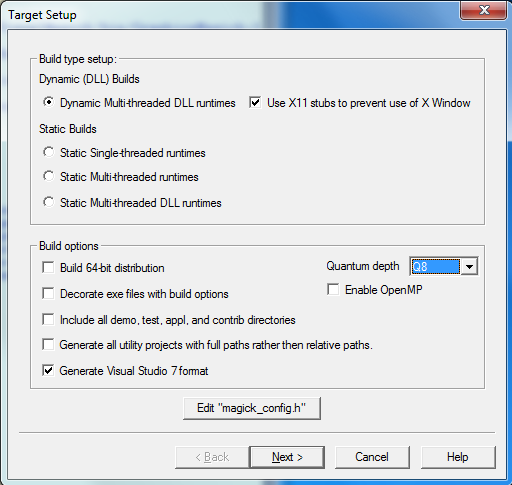
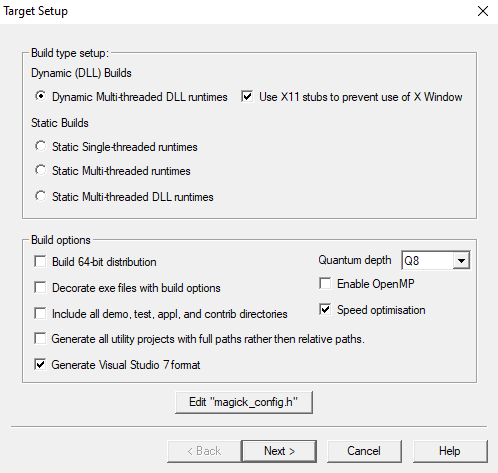
www/INSTALL-windows.rst: Update Windows installation and build documentation.

Changed region(s): [[0.0, 0.0, 1.0, 1.0]]

diff --git a/www/INSTALL-windows.html b/www/INSTALL-windows.html
@@ -179,23 +179,17 @@ options:</p>
 <li>Create a desktop icon</li>
 <li>Update executable search path</li>
 <li>Associate supported file extensions with GraphicsMagick</li>
-<li>Install ImageMagickObject OLE Control for VBscript, Visual Basic,
-and WSH.</li>
 </ul>
 <p>&quot;Creating a desktop icon&quot; and &quot;Update the executable search path&quot;
 are selected by default. The remaining options default to
 un-selected.  Select the options you prefer.</p>
-<p>Think twice before selecting &quot;<em>Associate supported file extensions with
-GraphicsMagick</em>&quot; since this will set up approximately fifty file
-associations, including common formats like JPEG, GIF, PNG, TIFF, and
-PDF. These file associations will be to the 'gmdisplay' program which
-is suitable for displaying images, but currently offers little more
-than that. Windows XP seems to handle the file associations pretty
-well, allowing you to choose from a list of programs, but older systems
-like Windows NT 4.0 and Windows '98 only support a single association
-per format, which can be quite annoying. Associations for
-GraphicsMagick's native formats (such as <a class="reference external" href="miff.html">MIFF</a>) will
-always be made.</p>
+<p>Think twice before selecting &quot;<em>Associate supported file extensions
+with GraphicsMagick</em>&quot; since this will set up approximately fifty
+file associations, including common formats like JPEG, GIF, PNG,
+TIFF, and PDF. These file associations will be to the 'gmdisplay'
+program which is suitable for displaying images, but currently
+offers little more than that.  Associations for GraphicsMagick's
+native formats (such as <a class="reference external" href="miff.html">MIFF</a>) will always be made.</p>
 <p>Once you have made your selections, click on &quot;<em>Next&gt;</em>&quot; to continue.</p>
 </blockquote>
 </div>
@@ -254,13 +248,9 @@ functionality. Always remove an installed GraphicsMagick via its
 uninstall function since manually removing it (such as by removing its
 installation directory) will leave behind the registry entries and path
 settings established at install time.</p>
-<p>Under Windows '95 and Windows '98, use the &quot;<em>Uninstall</em>&quot; entry in the
-GraphicsMagick portion of the Windows start menu to initiate the
-uninstall.</p>
-<p>On NT 4.0 and 5.X -based systems, GraphicsMagick should be removed via
-the &quot;<em>Add or Remove Programs</em>&quot; area of the Windows Control Panel. Select
-the GraphicsMagick package from the list, and click on &quot;<em>Change/Remove</em>&quot;
-to uninstall it.</p>
+<p>GraphicsMagick should be removed via the &quot;<em>Add or Remove Programs</em>&quot;
+area of the Windows Control Panel. Select the GraphicsMagick package
+from the list, and click on &quot;<em>Change/Remove</em>&quot; to uninstall it.</p>
 </blockquote>
 </div>
 <div class="section" id="use-from-another-package-or-program">
@@ -368,7 +358,7 @@ provided, as well as Visual Studio project files to recompile it
 from source code if needed.</p>
 <p>Once started, the configure program provides this configuration
 dialog after proceeding past the initial notifications screen:</p>
-<img alt="Configure program screen shot" class="align-center" src="configure-target-setup.png" style="width: 512.0px; height: 485.0px;" />
+<img alt="Configure program screen shot" class="align-center" src="configure-target-setup.png" style="width: 498.0px; height: 473.0px;" />
 <p>In addition to (or as a replacement to) the above dialog, the
 configure.exe program supports these command-line options:</p>
 <dl class="docutils">
@@ -406,9 +396,9 @@ distribution is built using #1 from above with the X11 libraries
 excluded. This results build using all DLL's for everything and
 multi-threaded support (the only option for DLL's).</p>
 <p>To do a build for your requirements, simply go to the configure sub-
-directory under VisualMagick and open the configure.dsw workspace (for
-Visual C++ 6.0) or configure.sln (for Visual C++ 7.X or 8.X). Set the
-build configuration to &quot;Release&quot; under the</p>
+directory under VisualMagick and open the configure.dsw workspace
+(for Visual C++ 6.0) or configure.sln (for Visual C++ 7.X through
+9.X). Set the build configuration to &quot;Release&quot; under the</p>
 <blockquote>
 &quot;Build..., Set Active Configuration...&quot;  menu.</blockquote>
 <p>Build and execute the configure program and follow the on-screen

diff --git a/www/Changelog.html b/www/Changelog.html
@@ -35,6 +35,13 @@
 <div class="document">
 
 
+<p>2020-02-23  Bob Friesenhahn  &lt;<a class="reference external" href="mailto:bfriesen&#37;&#52;&#48;simple&#46;dallas&#46;tx&#46;us">bfriesen<span>&#64;</span>simple<span>&#46;</span>dallas<span>&#46;</span>tx<span>&#46;</span>us</a>&gt;</p>
+<blockquote>
+<ul class="simple">
+<li>www/INSTALL-windows.rst: Update Windows installation and build
+documentation.</li>
+</ul>
+</blockquote>
 <p>2020-02-22  Bob Friesenhahn  &lt;<a class="reference external" href="mailto:bfriesen&#37;&#52;&#48;simple&#46;dallas&#46;tx&#46;us">bfriesen<span>&#64;</span>simple<span>&#46;</span>dallas<span>&#46;</span>tx<span>&#46;</span>us</a>&gt;</p>
 <blockquote>
 <ul class="simple">

diff --git a/magick/version.h b/magick/version.h
@@ -38,8 +38,8 @@ extern "C" {
 #define MagickLibVersion  0x232002
 #define MagickLibVersionText  "1.4"
 #define MagickLibVersionNumber 23,20,2
-#define MagickChangeDate   "20200222"
-#define MagickReleaseDate  "snapshot-20200222"
+#define MagickChangeDate   "20200223"
+#define MagickReleaseDate  "snapshot-20200223"
 
 /*
   The MagickLibInterfaceNewest and MagickLibInterfaceOldest defines

diff --git a/www/INSTALL-windows.rst b/www/INSTALL-windows.rst
@@ -130,24 +130,17 @@ Select Additional Tasks
 
   * Associate supported file extensions with GraphicsMagick
 
-  * Install ImageMagickObject OLE Control for VBscript, Visual Basic,
-    and WSH.
-
   "Creating a desktop icon" and "Update the executable search path"
   are selected by default. The remaining options default to
   un-selected.  Select the options you prefer.
 
-  Think twice before selecting "*Associate supported file extensions with
-  GraphicsMagick*" since this will set up approximately fifty file
-  associations, including common formats like JPEG, GIF, PNG, TIFF, and
-  PDF. These file associations will be to the 'gmdisplay' program which
-  is suitable for displaying images, but currently offers little more
-  than that. Windows XP seems to handle the file associations pretty
-  well, allowing you to choose from a list of programs, but older systems
-  like Windows NT 4.0 and Windows '98 only support a single association
-  per format, which can be quite annoying. Associations for
-  GraphicsMagick's native formats (such as `MIFF <miff.html>`_) will
-  always be made.
+  Think twice before selecting "*Associate supported file extensions
+  with GraphicsMagick*" since this will set up approximately fifty
+  file associations, including common formats like JPEG, GIF, PNG,
+  TIFF, and PDF. These file associations will be to the 'gmdisplay'
+  program which is suitable for displaying images, but currently
+  offers little more than that.  Associations for GraphicsMagick's
+  native formats (such as `MIFF <miff.html>`_) will always be made.
 
   Once you have made your selections, click on "*Next>*" to continue.
 
@@ -207,14 +200,9 @@ Uninstall
   installation directory) will leave behind the registry entries and path
   settings established at install time.
 
-  Under Windows '95 and Windows '98, use the "*Uninstall*" entry in the
-  GraphicsMagick portion of the Windows start menu to initiate the
-  uninstall.
-
-  On NT 4.0 and 5.X -based systems, GraphicsMagick should be removed via
-  the "*Add or Remove Programs*" area of the Windows Control Panel. Select
-  the GraphicsMagick package from the list, and click on "*Change/Remove*"
-  to uninstall it.
+  GraphicsMagick should be removed via the "*Add or Remove Programs*"
+  area of the Windows Control Panel. Select the GraphicsMagick package
+  from the list, and click on "*Change/Remove*" to uninstall it.
 
 Use From Another Package or Program
 -----------------------------------
@@ -300,8 +288,8 @@ Windows XP, Vista, 7 Visual C++ 6.0 through 19.0 Compilation
   dialog after proceeding past the initial notifications screen:
 
   .. image:: configure-target-setup.png
-     :height: 485px
-     :width: 512px
+     :height: 473px
+     :width: 498px
      :scale: 100%
      :alt: Configure program screen shot
      :align: center
@@ -350,9 +338,9 @@ Windows XP, Vista, 7 Visual C++ 6.0 through 19.0 Compilation
   multi-threaded support (the only option for DLL's).
 
   To do a build for your requirements, simply go to the configure sub-
-  directory under VisualMagick and open the configure.dsw workspace (for
-  Visual C++ 6.0) or configure.sln (for Visual C++ 7.X or 8.X). Set the
-  build configuration to "Release" under the
+  directory under VisualMagick and open the configure.dsw workspace
+  (for Visual C++ 6.0) or configure.sln (for Visual C++ 7.X through
+  9.X). Set the build configuration to "Release" under the
 
       "Build..., Set Active Configuration..."  menu.
 
